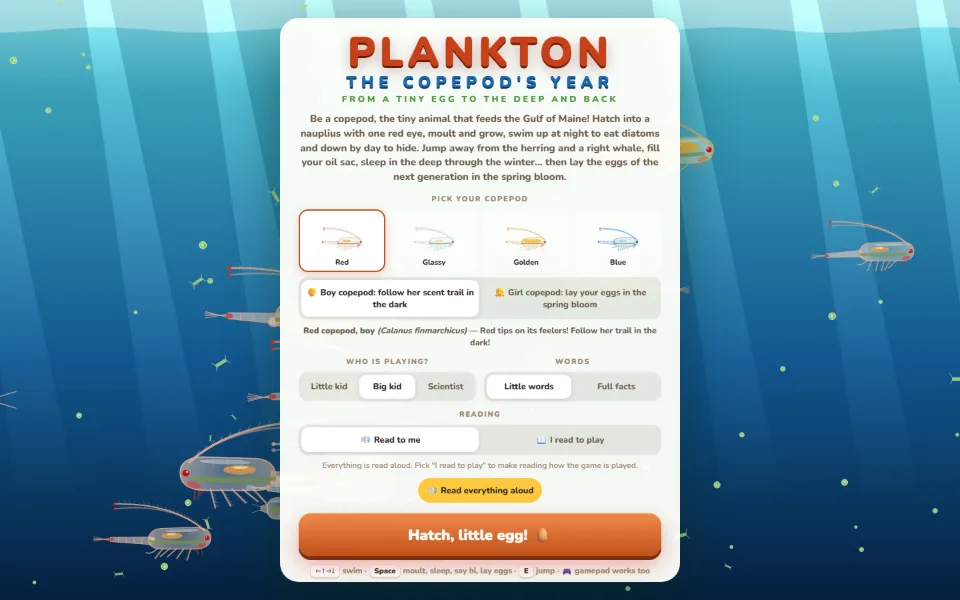
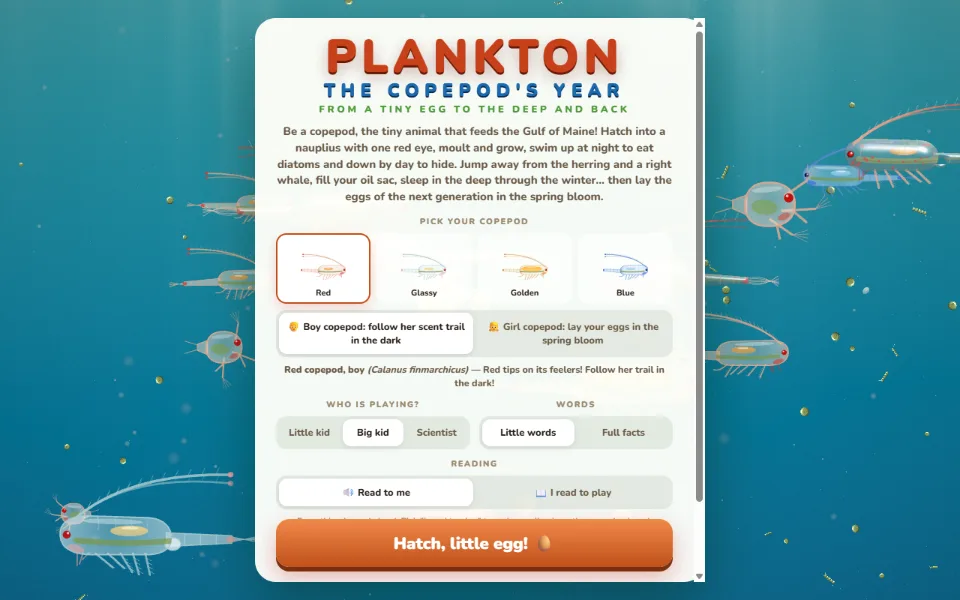
Plankton and Jellyfish: title screens in the painted look (game and card pictures)

diff --git a/docs/plankton/js/main.js b/docs/plankton/js/main.js
@@ -272,7 +272,9 @@
     /* bubbles pop at the surface */
     { const lvl = G.world.seaLevel(); G.particles.list = G.particles.list.filter(q => q.type !== 'bubble' || q.y > lvl + 1); }
     camera(rawDt);
-    Render.frame(G, dt);
+    /* behind the title the painted sea is shown in daylight; the game itself still starts at dusk */
+    if (!G.started && typeof GFX !== 'undefined' && GFX.active()) { const tod0 = G.tod, n0 = G.night; G.tod = .45; Render.frame(G, dt); G.tod = tod0; G.night = n0; }
+    else Render.frame(G, dt);
     frames++;
     if (params.has('debug')) document.title = `t=${G.time.toFixed(1)} ${p.stage}/${p.mode} s${p.step} food=${p.food.toFixed(0)} oil=${p.oil.toFixed(2)} safe=${p.safe.toFixed(2)} p=${p.x.toFixed(0)},${p.y.toFixed(0)} w${G.warp} fps=${Render.getFps().toFixed(0)}${typeof GFX !== 'undefined' && GFX.active() ? ` gl=${GFX.stats().ms.toFixed(1)}ms` : ''}`;
     if (params.has('debughud')) document.getElementById('hintText').textContent = `${STEP_NAME[p.step]} ${p.mode} food ${p.food.toFixed(1)}/${p.need} oil ${p.oil.toFixed(2)} safe ${p.safe.toFixed(2)} y ${p.y.toFixed(0)} tod ${G.tod.toFixed(2)} ${G.world.season} day ${G.day}`;
@@ -295,24 +297,29 @@
     tt += dt;
     if (tc.width !== W * DPR || tc.height !== H * DPR) { tc.width = W * DPR; tc.height = H * DPR; }
     tctx.setTransform(DPR, 0, 0, DPR, 0, 0);
-    const g = tctx.createLinearGradient(0, 0, 0, H); g.addColorStop(0, '#7ad0d8'); g.addColorStop(.15, '#3aa0b8'); g.addColorStop(.6, '#11568e'); g.addColorStop(1, '#04203e');
-    tctx.fillStyle = g; tctx.fillRect(0, 0, W, H);
-    tctx.fillStyle = 'rgba(255,255,255,.35)'; tctx.beginPath(); tctx.moveTo(0, 0); for (let x = 0; x <= W; x += 12) tctx.lineTo(x, H * .05 + Math.sin(x * .02 + tt * 1.5) * 4); tctx.lineTo(W, 0); tctx.fill();
-    tctx.save(); tctx.globalCompositeOperation = 'lighter';
-    for (let k = 0; k < 9; k++) { const bx = (k / 9 + Math.sin(tt * .1 + k) * .02) * W; const lg = tctx.createLinearGradient(0, 0, 0, H * .85); lg.addColorStop(0, 'rgba(210,250,240,.15)'); lg.addColorStop(1, 'rgba(200,240,255,0)'); tctx.fillStyle = lg; tctx.beginPath(); tctx.moveTo(bx, 0); tctx.lineTo(bx + 40, 0); tctx.lineTo(bx + 200, H * .85); tctx.lineTo(bx + 110, H * .85); tctx.closePath(); tctx.fill(); }
-    tctx.restore();
+    /* with the painted look: the live GL sea (just rendered this frame) behind painted animals */
+    const gl = typeof GFX !== 'undefined' && GFX.active() && typeof Painted !== 'undefined', A = gl ? Painted : Sprites;
+    if (gl) { tctx.setTransform(1, 0, 0, 1, 0, 0); tctx.drawImage(GFX.canvas(), 0, 0, tc.width, tc.height); tctx.setTransform(DPR, 0, 0, DPR, 0, 0); }
+    else {
+      const g = tctx.createLinearGradient(0, 0, 0, H); g.addColorStop(0, '#7ad0d8'); g.addColorStop(.15, '#3aa0b8'); g.addColorStop(.6, '#11568e'); g.addColorStop(1, '#04203e');
+      tctx.fillStyle = g; tctx.fillRect(0, 0, W, H);
+      tctx.fillStyle = 'rgba(255,255,255,.35)'; tctx.beginPath(); tctx.moveTo(0, 0); for (let x = 0; x <= W; x += 12) tctx.lineTo(x, H * .05 + Math.sin(x * .02 + tt * 1.5) * 4); tctx.lineTo(W, 0); tctx.fill();
+      tctx.save(); tctx.globalCompositeOperation = 'lighter';
+      for (let k = 0; k < 9; k++) { const bx = (k / 9 + Math.sin(tt * .1 + k) * .02) * W; const lg = tctx.createLinearGradient(0, 0, 0, H * .85); lg.addColorStop(0, 'rgba(210,250,240,.15)'); lg.addColorStop(1, 'rgba(200,240,255,0)'); tctx.fillStyle = lg; tctx.beginPath(); tctx.moveTo(bx, 0); tctx.lineTo(bx + 40, 0); tctx.lineTo(bx + 200, H * .85); tctx.lineTo(bx + 110, H * .85); tctx.closePath(); tctx.fill(); }
+      tctx.restore();
+    }
     /* a right whale far off in the blue */
-    tctx.save(); tctx.globalAlpha = .28; tctx.translate(((tt * 14) % (W + 900)) - 450, H * .72); tctx.scale(.42 * Math.min(1.4, W / 1000), .42 * Math.min(1.4, W / 1000)); tctx.filter = 'blur(1px)'; Sprites.drawWhale(tctx, { s: 1, t: tt, open: .6 }); tctx.restore(); tctx.filter = 'none';
+    tctx.save(); tctx.globalAlpha = .28; tctx.translate(((tt * 14) % (W + 900)) - 450, H * .72); tctx.scale(.42 * Math.min(1.4, W / 1000), .42 * Math.min(1.4, W / 1000)); tctx.filter = 'blur(1px)'; A.drawWhale(tctx, { s: 1, t: tt, open: .6 }); tctx.restore(); tctx.filter = 'none';
     /* diatoms glittering in the light */
-    for (const d of tDiatoms) { d.y -= dt * .004; if (d.y < -.02) d.y = 1.02; d.r += dt * .2; const x = (d.x + Math.sin(tt * .2 + d.ph) * .01) * W, y = d.y * H; tctx.save(); tctx.translate(x, y); tctx.scale(3.2 * d.s, 3.2 * d.s); Sprites.drawPlankton(tctx, { x: 0, y: 0, kind: d.k, rot: d.r }, 0, 0); tctx.restore(); }
+    for (const d of tDiatoms) { d.y -= dt * .004; if (d.y < -.02) d.y = 1.02; d.r += dt * .2; const x = (d.x + Math.sin(tt * .2 + d.ph) * .01) * W, y = d.y * H; tctx.save(); tctx.translate(x, y); tctx.scale(3.2 * d.s, 3.2 * d.s); A.drawPlankton(tctx, { x: 0, y: 0, kind: d.k, rot: d.r }, 0, 0); tctx.restore(); }
     /* copepods and nauplii swimming across, now and then a jump */
     for (const c of swimmers) {
       c.hop = Math.max(0, c.hop - dt * 2); if (Math.random() < dt * .08) c.hop = 1;
       c.x += (c.sp + c.hop * .05) * c.dir * dt; c.ph += dt * 6; if (c.x < -.12) c.x = 1.12; if (c.x > 1.12) c.x = -.12;
       const x = c.x * W, y = c.y * H + Math.sin(tt * .7 + c.ph) * 8, s = c.s * Math.min(1.7, W / 800) * 4.2;
       tctx.save(); tctx.translate(x, y); tctx.scale(c.dir, 1);
-      if (c.naup) Sprites.drawNauplius(tctx, { s: s * 1.4, form: c.form, step: 3, ph: c.ph, gut: .5 });
-      else Sprites.drawCopepod(tctx, { s, form: c.form, step: 12, sex: c.s > 1 ? 'girl' : 'boy', ph: c.ph, jump: c.hop, oil: c.form === 'gold' ? .9 : .3, gut: .6 });
+      if (c.naup) A.drawNauplius(tctx, { s: s * 1.4, form: c.form, step: 3, ph: c.ph, gut: .5 });
+      else A.drawCopepod(tctx, { s, form: c.form, step: 12, sex: c.s > 1 ? 'girl' : 'boy', ph: c.ph, jump: c.hop, oil: c.form === 'gold' ? .9 : .3, gut: .6 });
       tctx.restore();
     }
   }

diff --git a/docs/jellyfish/js/main.js b/docs/jellyfish/js/main.js
@@ -348,7 +348,9 @@
     } else if (!G.started) { G.time += rawDt; G.world.update(rawDt * .3, G.tod, p); }
     G.particles.update(dt, (x) => G.world.ground.topAt(x));
     camera(rawDt);
-    Render.frame(G, dt);
+    /* behind the title the painted sea is shown in daylight; the game itself still starts at dusk */
+    if (!G.started && typeof GFX !== 'undefined' && GFX.active()) { const tod0 = G.tod, n0 = G.night; G.tod = .45; Render.frame(G, dt); G.tod = tod0; G.night = n0; }
+    else Render.frame(G, dt);
     frames++;
     if (params.has('debug')) document.title = `t=${G.time.toFixed(1)} ${p.stage}/${p.mode} p${p.pinst} e${p.einst} m${p.minst} food=${(p.stage === 'polyp' ? p.pfood : p.stage === 'ephyra' ? p.efood : p.mfood).toFixed(0)} p=${p.x.toFixed(0)},${p.y.toFixed(0)} fps=${Render.getFps().toFixed(0)}${typeof GFX !== 'undefined' && GFX.active() ? ` gl=${GFX.stats().ms.toFixed(1)}ms` : ''}`;
     if (G.started) UI.update(rawDt);
@@ -370,15 +372,20 @@
     tt += dt;
     if (tc.width !== W * DPR || tc.height !== H * DPR) { tc.width = W * DPR; tc.height = H * DPR; }
     tctx.setTransform(DPR, 0, 0, DPR, 0, 0);
-    const g = tctx.createLinearGradient(0, 0, 0, H); g.addColorStop(0, '#5ab8e0'); g.addColorStop(.12, '#2a86c0'); g.addColorStop(.6, '#0e4a80'); g.addColorStop(1, '#06203a');
-    tctx.fillStyle = g; tctx.fillRect(0, 0, W, H);
-    tctx.fillStyle = 'rgba(255,255,255,.35)'; tctx.beginPath(); tctx.moveTo(0, 0); for (let x = 0; x <= W; x += 12) tctx.lineTo(x, H * .05 + Math.sin(x * .02 + tt * 1.5) * 4); tctx.lineTo(W, 0); tctx.fill();
-    tctx.save(); tctx.globalCompositeOperation = 'lighter';
-    for (let k = 0; k < 9; k++) { const bx = (k / 9 + Math.sin(tt * .1 + k) * .02) * W; const lg = tctx.createLinearGradient(0, 0, 0, H * .85); lg.addColorStop(0, 'rgba(200,240,255,.14)'); lg.addColorStop(1, 'rgba(200,240,255,0)'); tctx.fillStyle = lg; tctx.beginPath(); tctx.moveTo(bx, 0); tctx.lineTo(bx + 40, 0); tctx.lineTo(bx + 200, H * .85); tctx.lineTo(bx + 110, H * .85); tctx.closePath(); tctx.fill(); }
-    tctx.restore();
-    for (const s of tSpecks) { s.y -= dt * .004; if (s.y < 0) s.y = 1; tctx.fillStyle = `rgba(220,245,255,${.25 + .25 * Math.sin(tt * 2 + s.ph)})`; tctx.beginPath(); tctx.arc((s.x + Math.sin(tt * .2 + s.ph) * .01) * W, s.y * H, 1.3, 0, TAU); tctx.fill(); }
-    /* the rocks and the dock far below */
-    tctx.fillStyle = '#16304a'; tctx.beginPath(); tctx.moveTo(0, H); tctx.lineTo(0, H * .86); tctx.quadraticCurveTo(W * .3, H * .8, W * .55, H * .88); tctx.quadraticCurveTo(W * .8, H * .84, W, H * .9); tctx.lineTo(W, H); tctx.fill();
+    /* with the painted look: the live GL sea (just rendered this frame) behind painted jellies */
+    const gl = typeof GFX !== 'undefined' && GFX.active() && typeof Painted !== 'undefined', A = gl ? Painted : Sprites;
+    if (gl) { tctx.setTransform(1, 0, 0, 1, 0, 0); tctx.drawImage(GFX.canvas(), 0, 0, tc.width, tc.height); tctx.setTransform(DPR, 0, 0, DPR, 0, 0); }
+    else {
+      const g = tctx.createLinearGradient(0, 0, 0, H); g.addColorStop(0, '#5ab8e0'); g.addColorStop(.12, '#2a86c0'); g.addColorStop(.6, '#0e4a80'); g.addColorStop(1, '#06203a');
+      tctx.fillStyle = g; tctx.fillRect(0, 0, W, H);
+      tctx.fillStyle = 'rgba(255,255,255,.35)'; tctx.beginPath(); tctx.moveTo(0, 0); for (let x = 0; x <= W; x += 12) tctx.lineTo(x, H * .05 + Math.sin(x * .02 + tt * 1.5) * 4); tctx.lineTo(W, 0); tctx.fill();
+      tctx.save(); tctx.globalCompositeOperation = 'lighter';
+      for (let k = 0; k < 9; k++) { const bx = (k / 9 + Math.sin(tt * .1 + k) * .02) * W; const lg = tctx.createLinearGradient(0, 0, 0, H * .85); lg.addColorStop(0, 'rgba(200,240,255,.14)'); lg.addColorStop(1, 'rgba(200,240,255,0)'); tctx.fillStyle = lg; tctx.beginPath(); tctx.moveTo(bx, 0); tctx.lineTo(bx + 40, 0); tctx.lineTo(bx + 200, H * .85); tctx.lineTo(bx + 110, H * .85); tctx.closePath(); tctx.fill(); }
+      tctx.restore();
+      for (const s of tSpecks) { s.y -= dt * .004; if (s.y < 0) s.y = 1; tctx.fillStyle = `rgba(220,245,255,${.25 + .25 * Math.sin(tt * 2 + s.ph)})`; tctx.beginPath(); tctx.arc((s.x + Math.sin(tt * .2 + s.ph) * .01) * W, s.y * H, 1.3, 0, TAU); tctx.fill(); }
+      /* the rocks and the dock far below */
+      tctx.fillStyle = '#16304a'; tctx.beginPath(); tctx.moveTo(0, H); tctx.lineTo(0, H * .86); tctx.quadraticCurveTo(W * .3, H * .8, W * .55, H * .88); tctx.quadraticCurveTo(W * .8, H * .84, W, H * .9); tctx.lineTo(W, H); tctx.fill();
+    }
     for (const j of tJellies) {
       j.ph += dt * (1.1 + j.z * .4); j.y -= j.sp * dt * (.5 + .5 * Math.max(0, Math.sin(j.ph))); j.x += j.drift * dt;
       if (j.y < -.15) { j.y = 1.15; j.x = Math.random(); }
@@ -386,7 +393,7 @@
       const u = (j.ph / TAU) % 1, pulse = u < .28 ? smoothstep(0, .28, u) : 1 - smoothstep(.28, 1, u);
       const r = Math.min(W, H) * .07 * j.z;
       tctx.save(); tctx.translate(j.x * W, j.y * H); tctx.rotate(Math.sin(j.ph * .3) * .15); tctx.globalAlpha = .45 + j.z * .55;
-      Sprites.drawJelly(tctx, { r, form: j.form, pulse, t: tt + j.ph, simple: r < 14 });
+      A.drawJelly(tctx, { r, form: j.form, pulse, t: tt + j.ph, simple: r < 14 });
       tctx.restore();
     }
   }

diff --git a/docs/plankton/sw.js b/docs/plankton/sw.js
@@ -1,7 +1,7 @@
 /* Plankton: The Copepod's Year — offline cache.  Everything the game needs
    is a static file, so we cache the lot on install and serve from the
    cache first.  Bump VERSION when files change. */
-const VERSION = 'plankton-v2';
+const VERSION = 'plankton-v3';
 const FILES = [
   './', './index.html', './hunt.html', './manifest.webmanifest', './css/style.css',
   './js/core.js', './js/facts.js', './js/readlex.js', './js/seabed.js', './js/world.js', './js/sprites.js', './js/paint.js', './js/gfx.js', './js/particles.js',

diff --git a/docs/jellyfish/sw.js b/docs/jellyfish/sw.js
@@ -1,7 +1,7 @@
 /* Jellyfish: Pulse by Pulse — offline cache.  Everything the game needs
    is a static file, so we cache the lot on install and serve from the
    cache first.  Bump VERSION when files change. */
-const VERSION = 'jellyfish-v2';
+const VERSION = 'jellyfish-v3';
 const FILES = [
   './', './index.html', './hunt.html', './manifest.webmanifest', './css/style.css',
   './js/core.js', './js/facts.js', './js/readlex.js', './js/seabed.js', './js/world.js', './js/sprites.js', './js/paint.js', './js/gfx.js', './js/particles.js',
